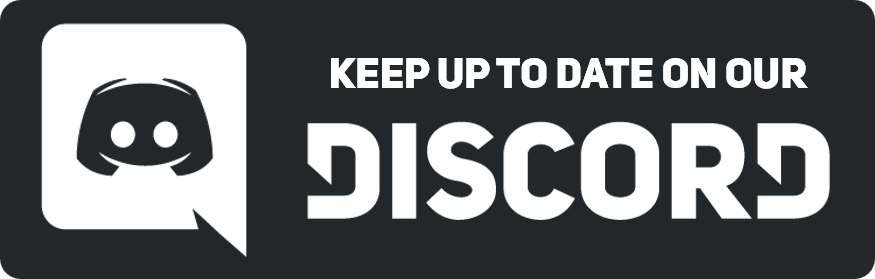
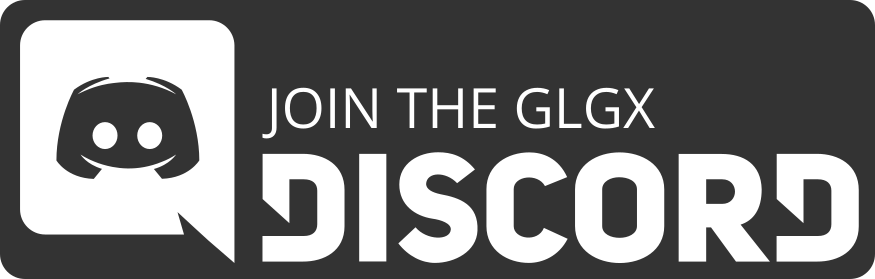
Rest of updates for oganizers (Missing Mike), discord and twitch pictures

diff --git a/index.html b/index.html
@@ -22,8 +22,9 @@ layout: default
         <div class="section-header pb-80">
             <h2 class="pixelText">About Us</h2>
             <hr class="divider"/>
-            <p class="color-white">Great Lakes Game Expo (GLGX) is an online game design and development expo organized by a group of coordinators from midwest game communities. It strives to promote the work of our industry at all of its scales, highlighting the leaders and innovators as much as the hobbyists and tinkerers. Through talks and game showcases GLGX elevates the work of the midwest industry and provides new opportunities and outlets for disseminating the work of anyone working on games.</p>
-            <a href="https://discord.gg/vpFXgxNxKn" target="_blank"><img width="300" src="/img/discord.png"/> </a>
+            <p class="color-white pb-3">Great Lakes Game Expo (GLGX) is an online game design and development expo organized by a <a class="color-orange" href="/organizers">group of coordinators</a> from midwest game communities. It strives to promote the work of our industry at all of its scales, highlighting the leaders and innovators as much as the hobbyists and tinkerers. Through talks and game showcases GLGX elevates the work of the midwest industry and provides new opportunities and outlets for disseminating the work of anyone working on games.</p>
+            <a href="https://discord.gg/vpFXgxNxKn" class="p-3" target="_blank"><img width="200" src="/img/discord.png"/> </a>
+            <a href="https://twitch.tv/glgexpo" class="p-3" target="_blank"><img width="200" src="/img/twitch.png"/> </a>
         </div>
     </div>
 </section>

diff --git a/css/includes/base.scss b/css/includes/base.scss
@@ -130,10 +130,6 @@ body,html{
 footer small
 {
   font-size: 14px;
-  a.color-orange:hover{
-    color: #f1ad82;
-    text-decoration: none;
-  }
 }
 
 .bottom-footer

diff --git a/css/includes/utils.scss b/css/includes/utils.scss
@@ -60,3 +60,7 @@
   background-color: #ee8650;
   border-color: #ee8650;
 }
+a.color-orange:hover{
+  color: #f1ad82;
+  text-decoration: none;
+}

diff --git a/_organizers/mike_k.md b/_organizers/mike_k.md
@@ -1,15 +1,9 @@
 ---
-name: Mike K
-description: Mike 
-img: https://via.placeholder.com/512
+name: Mike Klamerus
+description: More details soon! 
+img: /img/logo.png
 social: 
     -
         icon: fab fa-twitter
-        url: https://twitter.com/nujakujata
-    -
-        icon: fab fa-itch-io
-        url: https://nujakujata.itch.io/
-    -
-        icon: fas fa-globe
-        url:  http://marsashton.com
+        url: https://twitter.com/MichaelKlamerus
 ---
